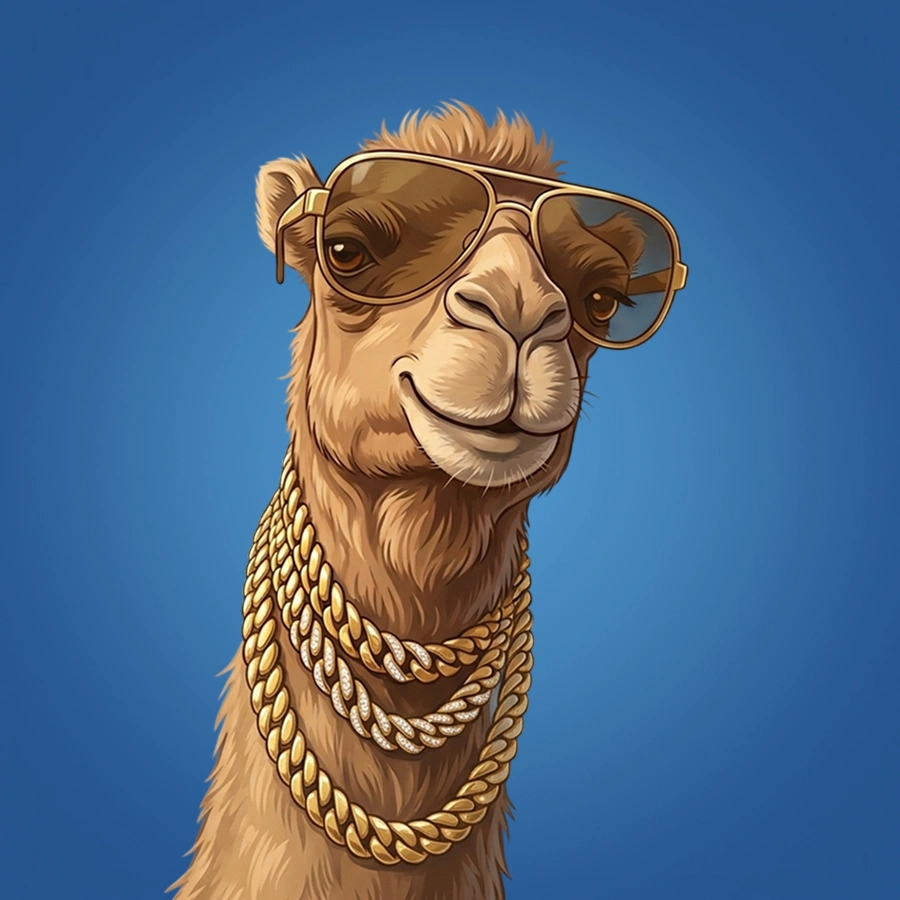
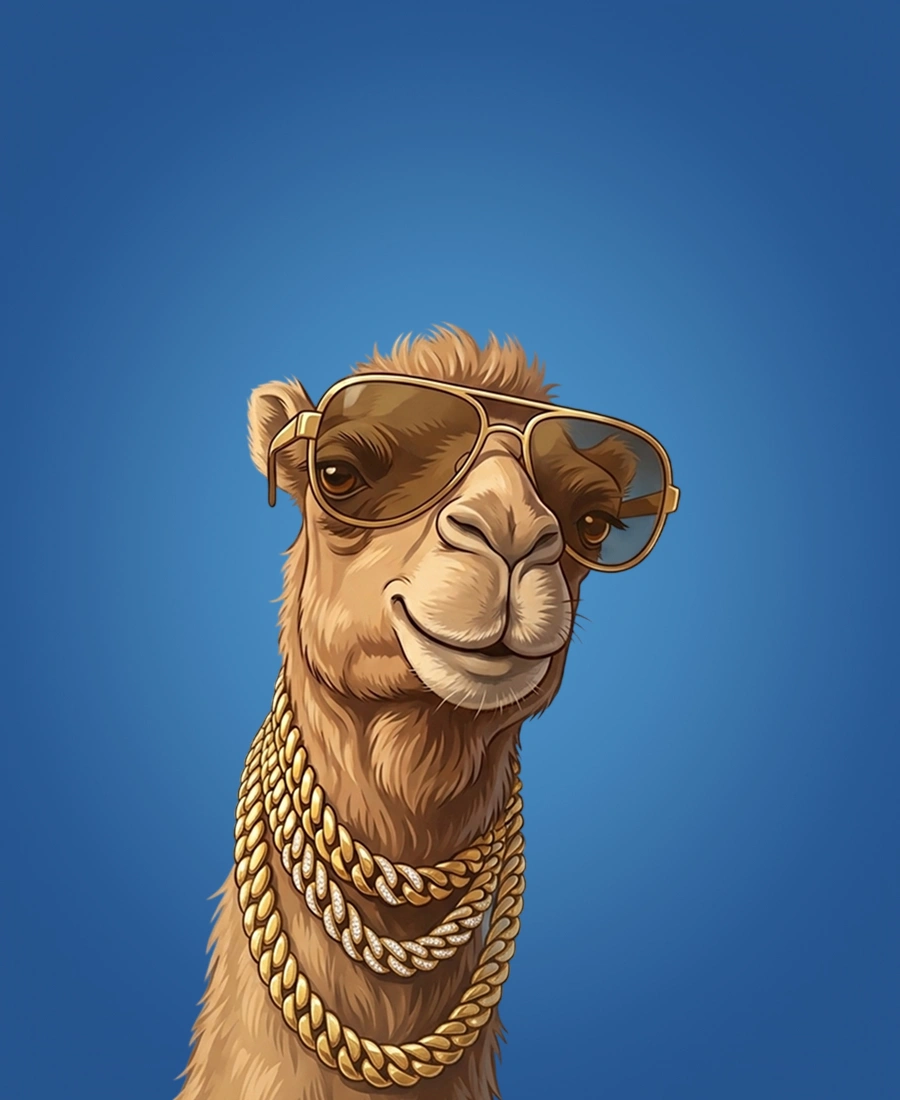
описание изменений

Changed region(s): [[0.1867, 0.0933, 0.7778, 1.0]]

diff --git a/style.css b/style.css
@@ -1,5 +1,5 @@
 @import url("https://fonts.googleapis.com/css2?family=El+Messiri:wght@400;500;600;700&display=swap");
-@import url("https://fonts.googleapis.com/css2?family=Manrope:wght@400;500;600;700&display=swap");
+@import url("https://fonts.googleapis.com/css2?family=Manrope:wght@200..800&display=swap");
 
 * {
   margin: 0;
@@ -40,7 +40,7 @@ body {
   content: "";
   position: absolute;
   width: 100%;
-  height: 30vh;
+  height: 25vh;
   bottom: 0;
   right: 0;
   background: url(img/camel.webp) bottom right / contain no-repeat;
@@ -53,7 +53,7 @@ body {
   background: #fff;
   padding: 30px;
   border-radius: 20px;
-  margin-top: 16dvh;
+  margin-top: 10dvh;
   z-index: 5;
 }
 
@@ -65,7 +65,7 @@ h1,
 h2,
 p {
   text-align: center;
-  line-height: 1.1;
+  line-height: 1;
 }
 
 h1,
@@ -80,26 +80,18 @@ p {
 
 .gender-buttons {
   display: flex;
-  gap: 12px;
+  gap: 6px;
 }
 
 .btn-wrap {
   width: 100%;
-  padding: 4px;
   border-radius: 12px;
-  border: 2px solid transparent;
   position: relative;
-  transition: border 0.3s ease-in;
-}
-.btn-wrap:hover,
-.btn-wrap:active {
-  border: 2px solid #26548f;
 }
 
 .btn-img {
   width: 100%;
   height: auto;
-  aspect-ratio: 1/1;
   object-fit: cover;
   object-position: top;
   border-radius: 8px;
@@ -130,9 +122,24 @@ button {
   border: none;
   border-radius: 8px;
   cursor: pointer;
+  font-family: var(--font-main);
   font-size: 16px;
+  font-weight: 300;
   background: #26548f;
   color: white;
+}
+
+.disclaimer {
+  margin-top: 24px;
+  opacity: 0.8;
+}
+
+.disclaimer p {
+  font-size: 10px;
+  font-weight: 300;
+  font-style: italic;
+  line-height: 1.2;
+  margin: 0;
 }
 
 .progress {
@@ -195,7 +202,7 @@ button {
 
 @media (max-width: 600px) {
   .app {
-    padding: 16px;
+    padding: 10px;
   }
 
   .screen {

diff --git a/index.html b/index.html
@@ -15,20 +15,27 @@
   <body>
     <main class="app">
       <section id="start-screen" class="screen active">
-        <h1>Сколько верблюдов ты стоишь?</h1>
+        <h1>Сколько верблюдов ты&nbsp;стоишь?</h1>
         <p>Выбери пол, чтобы начать тест</p>
 
         <div class="gender-buttons">
           <div class="btn-wrap">
             <img src="img/camel-male.webp" alt="" class="btn-img" />
             <h5 class="btn-title">для парней</h5>
-            <button id="male-btn">Начать тест</button>
+            <button id="male-btn">начать тест</button>
           </div>
           <div class="btn-wrap">
             <img src="img/camel-female.webp" alt="" class="btn-img" />
             <h5 class="btn-title">для девушек</h5>
-            <button id="female-btn">Начать тест</button>
+            <button id="female-btn">начать тест</button>
           </div>
+        </div>
+
+        <div class="disclaimer">
+          <p>
+            Шуточный калькулятор по&nbsp;мотивам восточных традиций.<br />
+            Никаких научных расчётов — только пустынная математика и&nbsp;верблюжья логика.
+          </p>
         </div>
       </section>
 
@@ -45,7 +52,7 @@
       </section>
 
       <section id="loading-screen" class="screen">
-        <h2>Считаем стоимость...</h2>
+        <h2>Оцениваем стоимость...</h2>
         <div class="loader"></div>
       </section>
 
@@ -59,7 +66,7 @@
         <p id="result-text"></p>
 
         <div class="result-share">
-          <p id="share-text">Сделай скрин и поделись с друзьями 🐪</p>
+          <p id="share-text">Делай скрин и делись с друзьями 🐪</p>
         </div>
 
         <div class="actions">